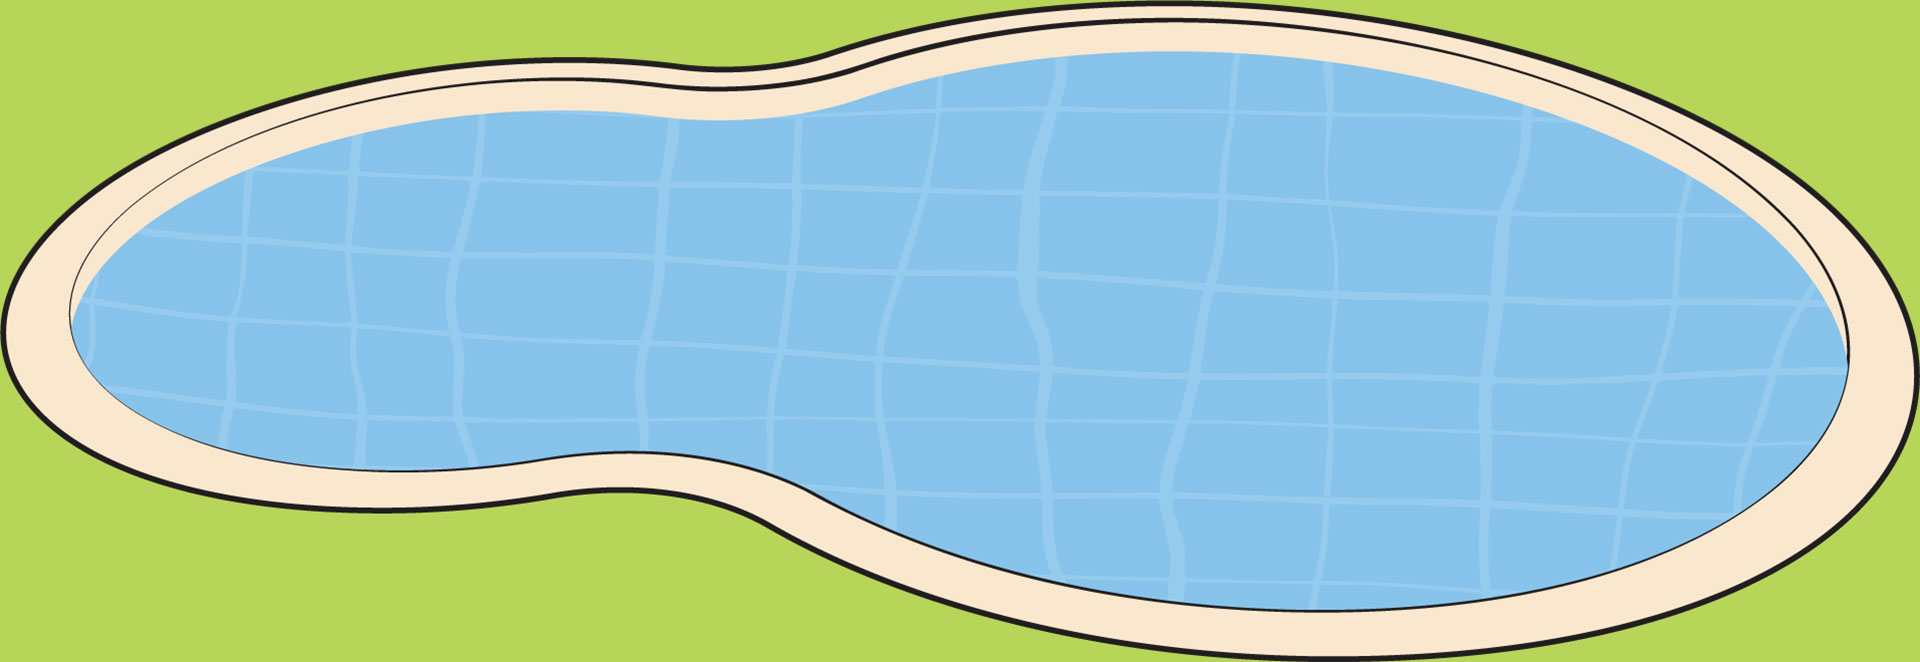
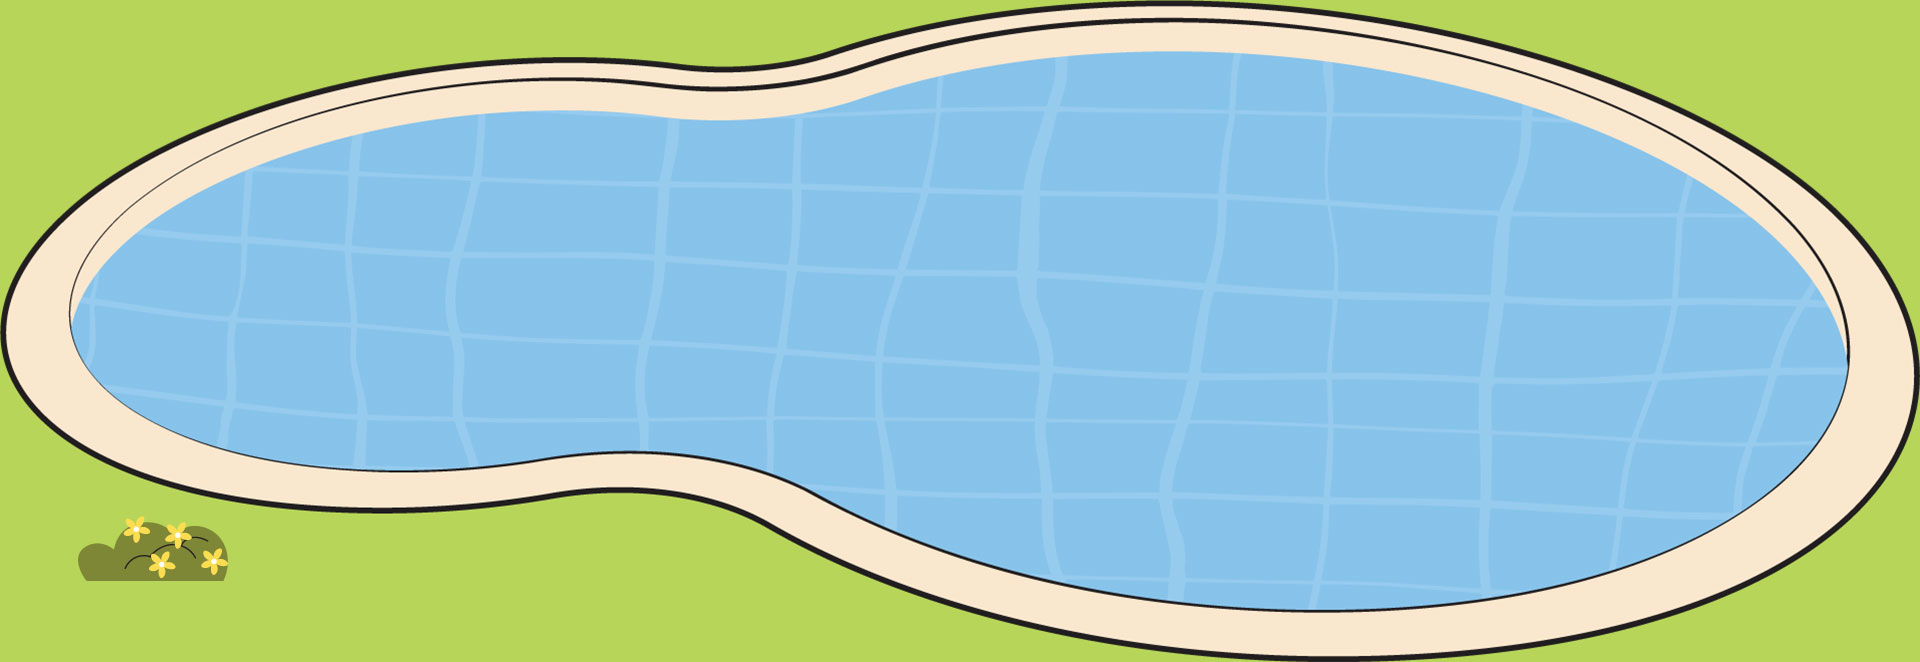
better images

Changed region(s): [[0.0312, 0.7855, 0.125, 0.8761]]

diff --git a/h52123/index.html b/h52123/index.html
@@ -62,25 +62,32 @@ e.async=true;var t=document.getElementsByTagName("script")[0];t.parentNode.inser
 <meta name="p:domain_verify" content="555e6e72efd395725f489e2ca0d49b94"/>
 <!-- pinterest - do not remove -->
 <style>
+.info-row-wrapper {
+    background: #f16c55;
+    max-width: 1920px;
+    margin: 0 auto;
+}
+.info-row {
+    text-align: center;
+    color: #fff;
+}
 .background-row {
-    background: -moz-linear-gradient(top, #ffffff 0%, #ffffff 25%, #efeeed 65%, #efeeed 100%);
-    background: -webkit-linear-gradient(top, #ffffff 0%, #ffffff 25%, #efeeed 65%, #efeeed 100%);
     background: linear-gradient(to bottom, #ffffff 0%, #ffffff 25%, #efeeed 65%, #efeeed 100%);
 }
 .row-wrapper {
-	max-width: 1920px;
-	margin: 0 auto;
-	padding-bottom: 30px;
-	background: #b7d559;
+    max-width: 1920px;
+    margin: 0 auto;
+    background: #b7d559;
 }
 .background {
     background: #b7d559 url("pool.jpg") top center/cover;
     position: relative;
     min-height: 662px;
+    padding: 0 10px;
 }
-	.watermelon-wrapper {
-	margin: -290px 0 0 30px;
-	position: relative;
+.watermelon-wrapper {
+    margin: -290px 0 0 250px;
+    position: relative;
 }
 .floaters {
     max-width: 1200px;
@@ -98,7 +105,7 @@ e.async=true;var t=document.getElementsByTagName("script")[0];t.parentNode.inser
     position: absolute;
     bottom: 0;
     right: 20px;
-    animation: orbit-two 60s linear infinite;
+    animation: orbit-two 70s ease-in-out infinite;
 }
 .float-three {
     position: absolute;
@@ -131,6 +138,22 @@ transform: rotate(0deg) translateX(20px) rotate(0deg);
 }
 to {
 transform: rotate(-360deg) translateX(20px) rotate(360deg);
+}
+}
+
+@media (max-width: 1600px) {
+.watermelon-wrapper {
+    margin: -290px 0 0 100px;
+}
+}
+
+@media (max-width: 1300px) {
+.watermelon-wrapper {
+    margin: -200px 0 0 20px;
+}
+.bottom-row {
+    padding-top: 60px;
+    background: #b7d559;
 }
 }
 </style>
@@ -306,6 +329,11 @@ $.get("https://s3.amazonaws.com/website.alert/alert.txt")
 <div class="container-fluid">
   <div id="general-alert" style="display:none;"></div>
   <!-- InstanceBeginEditable name="Content" -->
+  <div class="row info-row-wrapper">
+    <div class="info-row">
+      <h1 class="white text-uppercase">Content goes here</h1>
+    </div>
+  </div>
   <div class="row background-row">
     <div class="row-wrapper">
       <div class="background">
@@ -314,8 +342,10 @@ $.get("https://s3.amazonaws.com/website.alert/alert.txt")
           <div><img class="float-two" src="floating-two.png" alt=""></div>
           <div><img class="float-three" src="floating-three.png" alt=""></div>
         </div>
-      </div><div class="watermelon-wrapper"><img src="watermelon-dog.png" alt=""></div>
+      </div>
+      <div class="watermelon-wrapper"><img src="watermelon-dog.png" alt=""></div>
     </div>
+    <div class="bottom-row"><img class="img-responsive image-center" src="bottom-row.jpg" alt=""></div>
   </div>
   <!-- InstanceEndEditable --> </div>
 <div class="row no-margin bg-gray-10">
